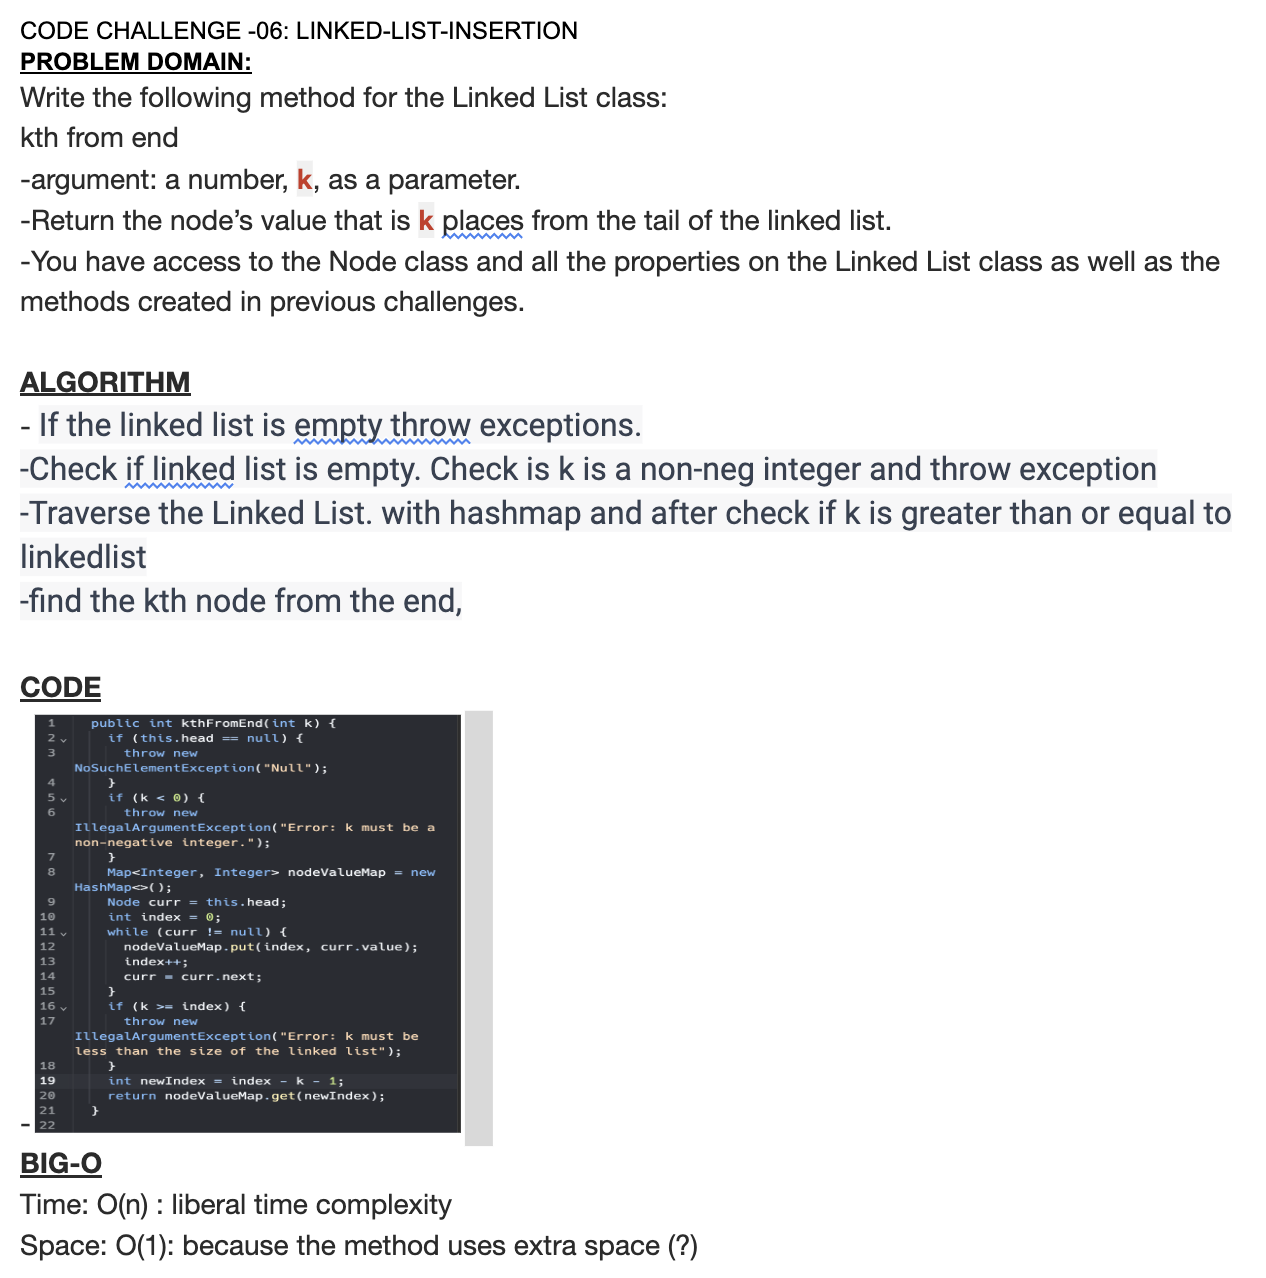
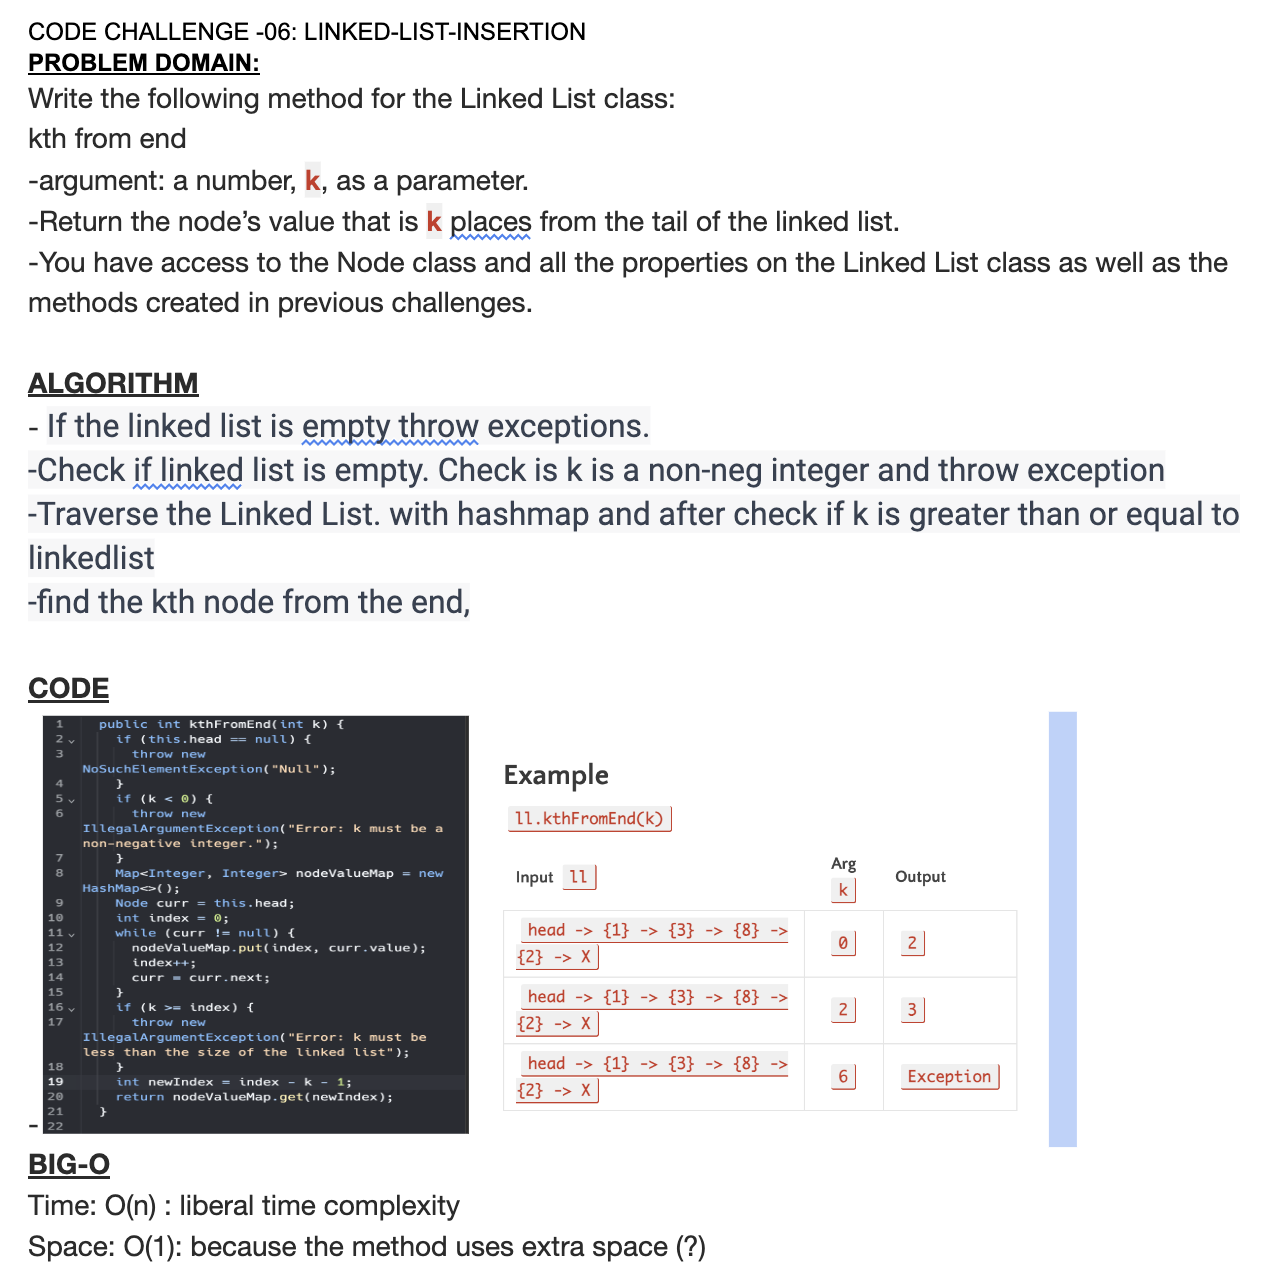
add whiteboard

diff --git a/java/datastructures/lib/src/main/java/datastructures/linkedlist/READMETWO.md b/java/datastructures/lib/src/main/java/datastructures/linkedlist/READMETWO.md
@@ -1,0 +1,15 @@
+# Code Challenge 07
+kth from end
+* argument: a number, k, as a parameter.
+* Return the node’s value that is k places from the tail of the linked list.
+* You have access to the Node class and all the properties on the Linked List class as well as the methods created in previous challenges.
+## Whiteboard Process
+![LinkedList Kth](./linkedlistkth.png)
+
+## Approach & Efficiency
+
+Time: O(n) : liberal time complexity
+Space: O(1): because the method uses extra space (?)
+
+## Solution
+See above
